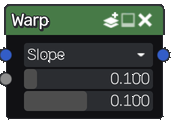
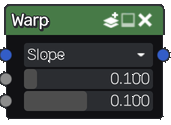
Added strength map input for warp node

Changed region(s): [[0.0, 0.744, 0.0877, 0.864]]

diff --git a/material_maker/doc/node_transform_warp.rst b/material_maker/doc/node_transform_warp.rst
@@ -10,11 +10,13 @@ derivative of a grayscale image.
 Inputs
 ++++++
 
-The **Warp** node accepts two inputs:
+The **Warp** node accepts three inputs:
 
 * The *Source* input is the image to be deformed.
 
-* The *Displace* input is a grayscale image whose derivative will be used to deform the source.
+* The *Height map* input is a grayscale image whose derivative will be used to deform the source.
+
+* Optional *Strength map* which multiplies the *strength* parameter by the map value.
 
 Outputs
 +++++++
@@ -33,7 +35,7 @@ The **Warp** node has three parameters:
 
 * *strength* to scale the warp effect.
 
-* *epsilon* is used to evaluate the second input's derivative
+* *epsilon* is used to evaluate the second input's derivative.
 
 Example images
 ++++++++++++++
